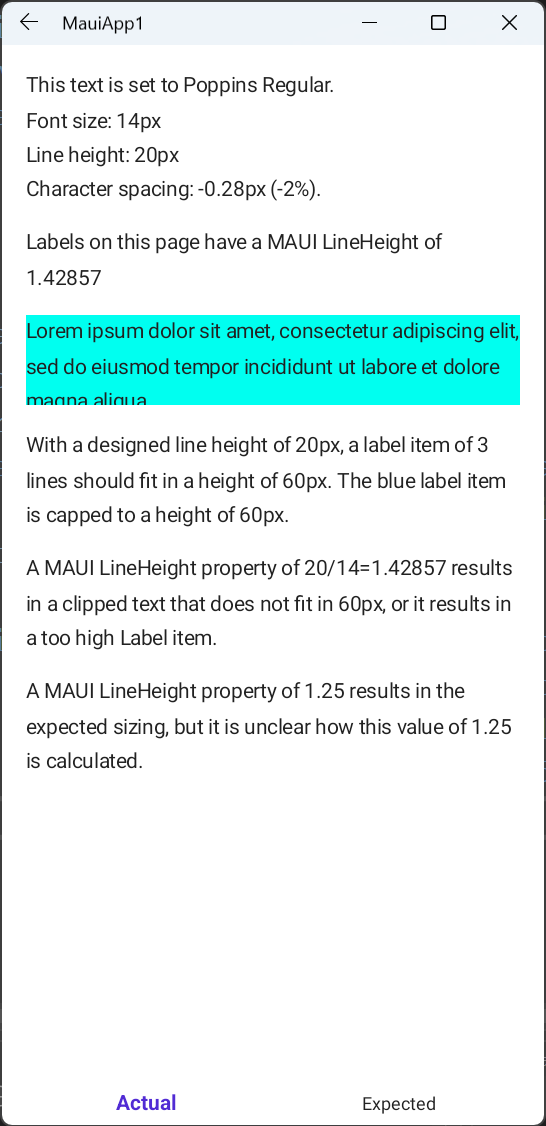
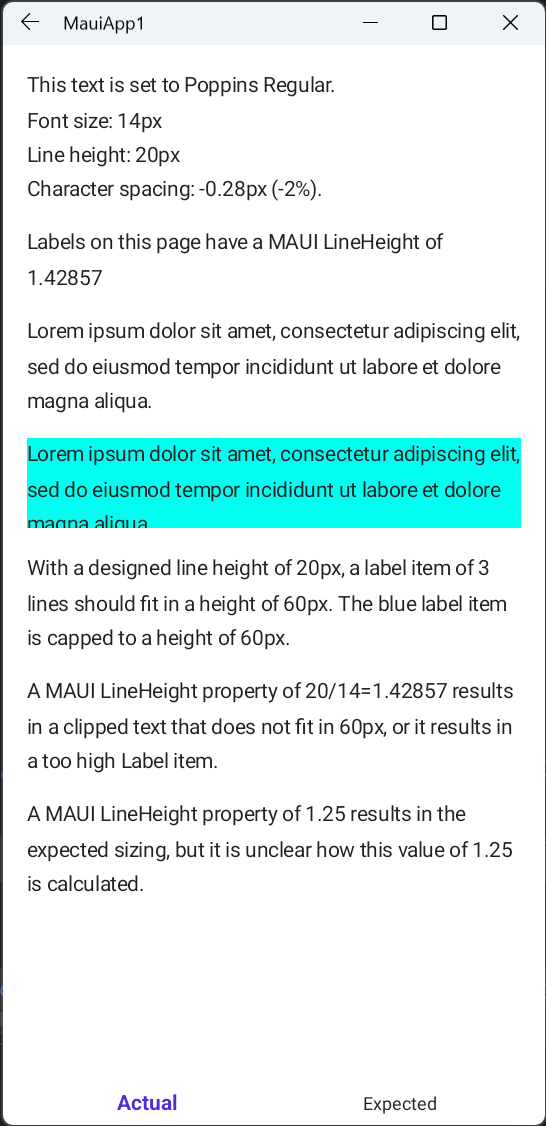
updates

diff --git a/src/MauiApp1/ExpectedPage.xaml b/src/MauiApp1/ExpectedPage.xaml
@@ -24,6 +24,7 @@
                              VerticalOptions="Start">
             <Label Text="This text is set to Poppins Regular.&#10;Font size: 14px&#10;Line height: 20px&#10;Character spacing: -0.28px (-2%)." />
             <Label Text="Labels on this page have a MAUI LineHeight of 1.25" />
+            <Label Text="Lorem ipsum dolor sit amet, consectetur adipiscing elit, sed do eiusmod tempor incididunt ut labore et dolore magna aliqua." />
             <Label HeightRequest="60"
                    Background="#00FFF0"
                    Text="Lorem ipsum dolor sit amet, consectetur adipiscing elit, sed do eiusmod tempor incididunt ut labore et dolore magna aliqua." />

diff --git a/src/MauiApp1/IssuePage.xaml b/src/MauiApp1/IssuePage.xaml
@@ -24,6 +24,7 @@
                              VerticalOptions="Start">
             <Label Text="This text is set to Poppins Regular.&#10;Font size: 14px&#10;Line height: 20px&#10;Character spacing: -0.28px (-2%)." />
             <Label Text="Labels on this page have a MAUI LineHeight of 1.42857" />
+            <Label Text="Lorem ipsum dolor sit amet, consectetur adipiscing elit, sed do eiusmod tempor incididunt ut labore et dolore magna aliqua." />
             <Label HeightRequest="60"
                    Background="#00FFF0"
                 Text="Lorem ipsum dolor sit amet, consectetur adipiscing elit, sed do eiusmod tempor incididunt ut labore et dolore magna aliqua." />
